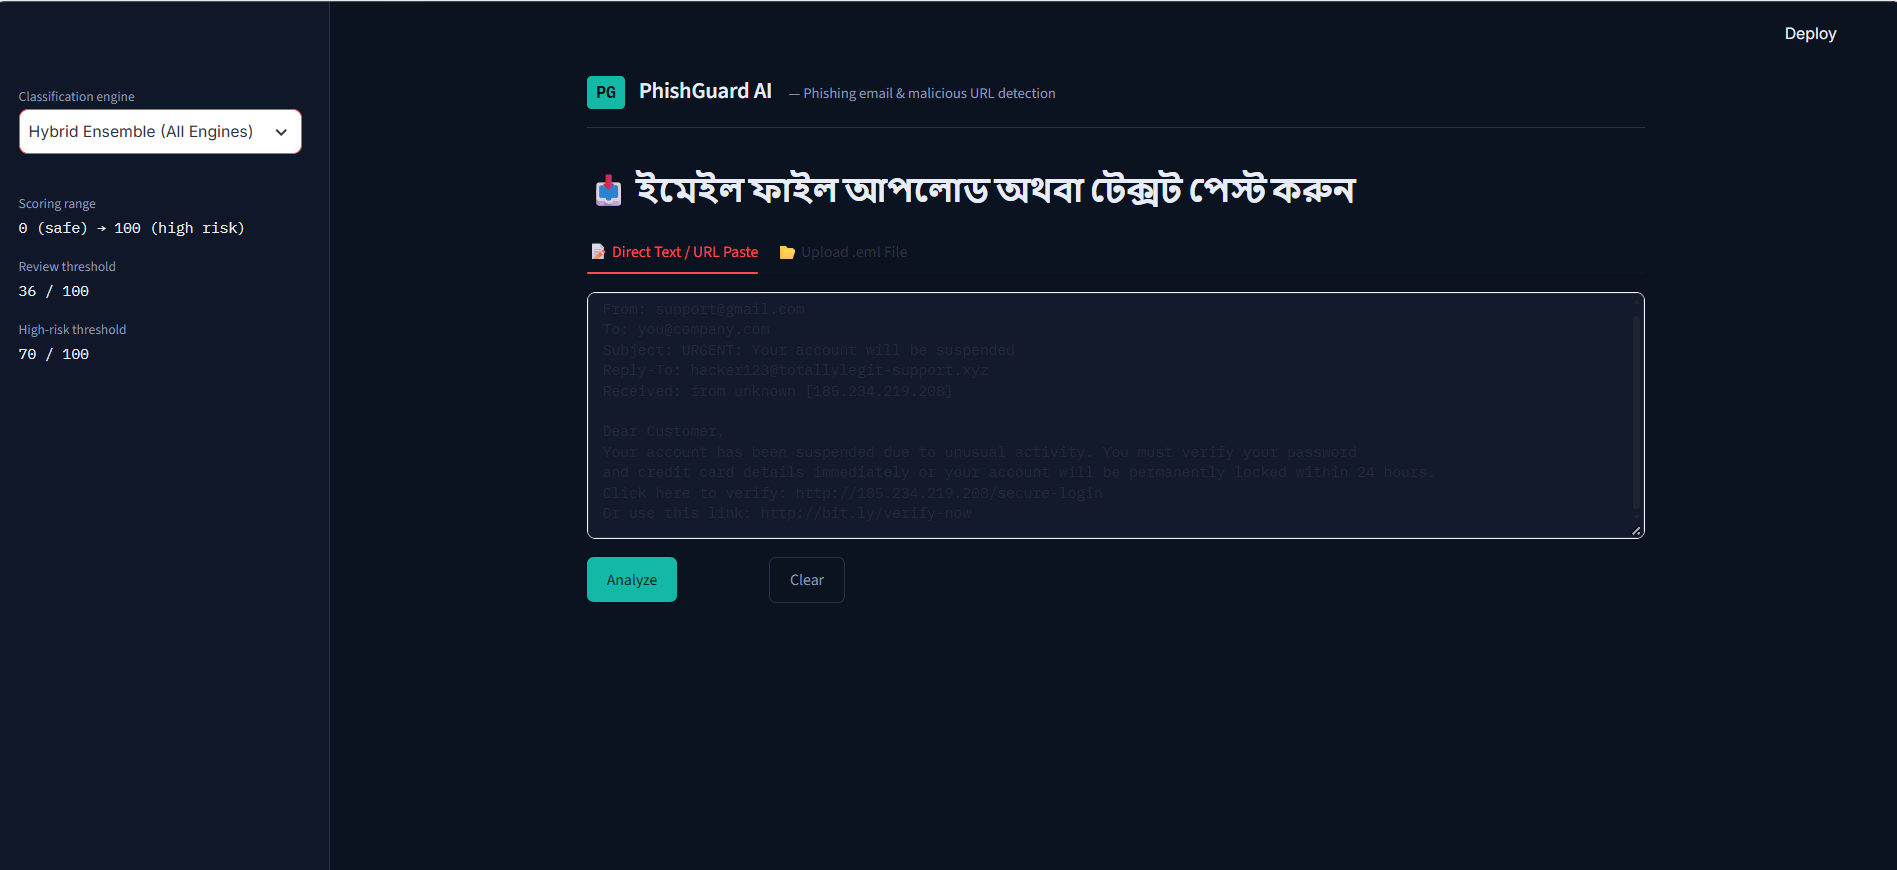
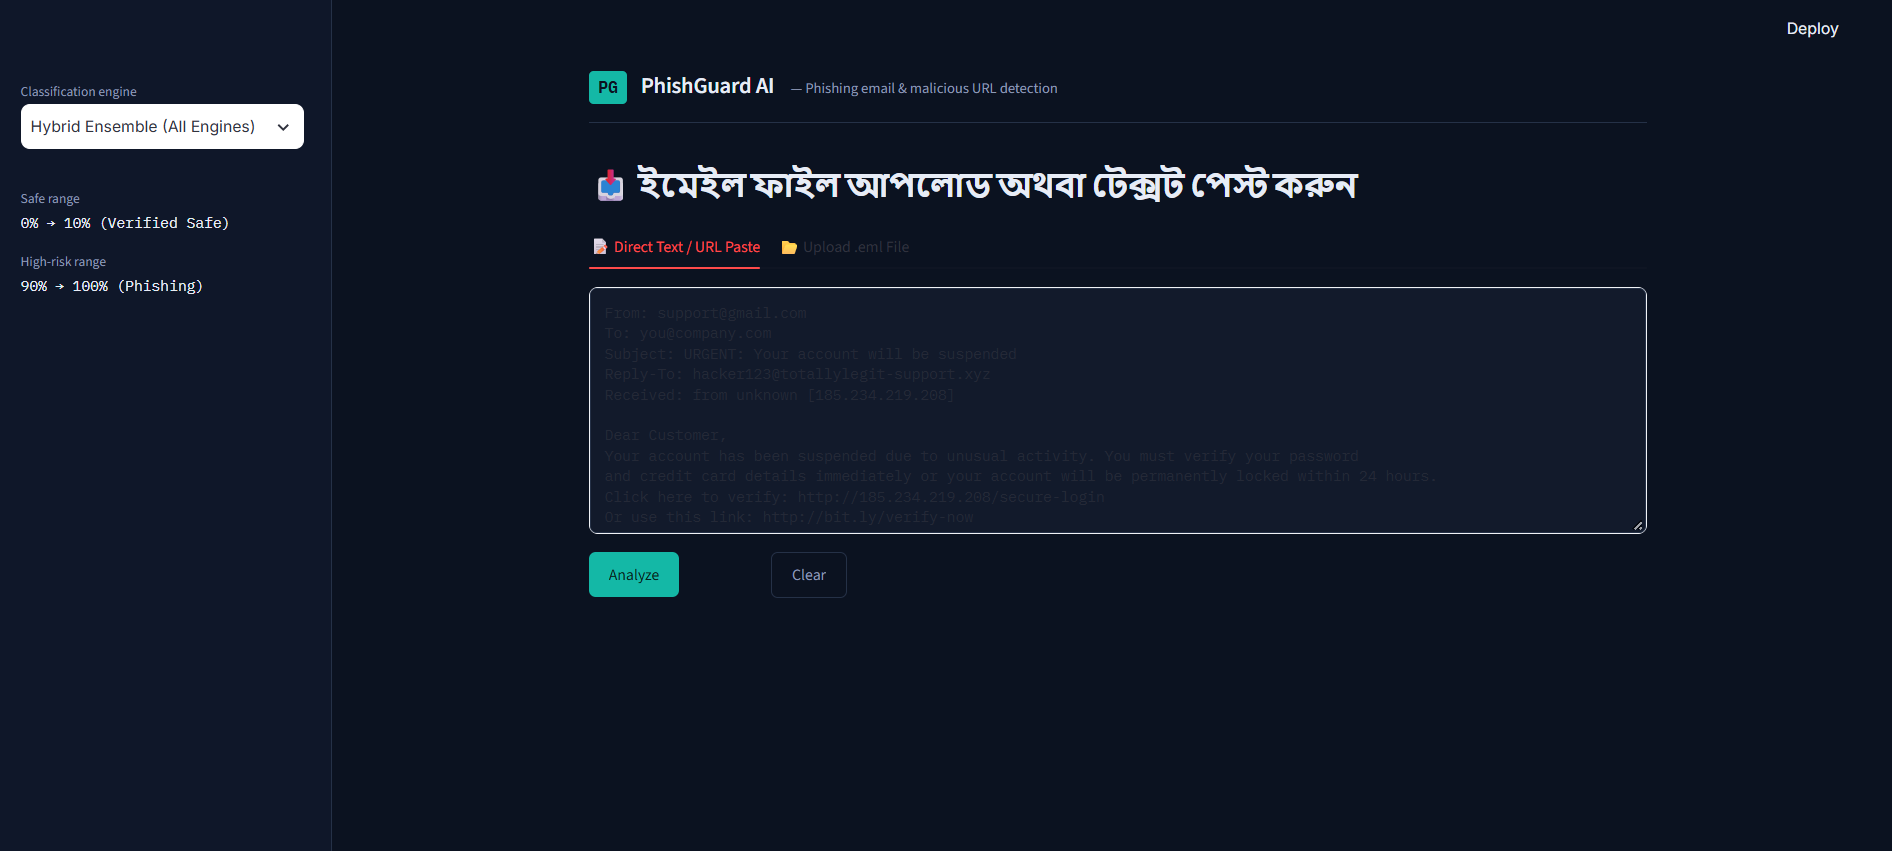
Update code

diff --git a/app.py b/app.py
@@ -98,7 +98,14 @@ GENERIC_GREETINGS = ["dear customer", "dear user", "dear valued", "dear sir/mada
 BRAND_KEYWORDS = ["paypal", "microsoft", "apple", "amazon", "netflix", "bank", "google", "facebook", "irs", "dhl", "fedex", "bkash", "nagad"]
 PRIVATE_IP_NOTE = "Private / non-routable address (internal network or header spoof artifact)"
 
-# Benign Context Patterns (Safe Override to prevent False Positives)
+# Trusted Official Domains Whitelist (Sender Reputation Check)
+TRUSTED_DOMAINS = [
+    "github.com", "google.com", "microsoft.com", "apple.com", "amazon.com",
+    "diu.edu.bd", "daffodilvarsity.edu.bd", "bkash.com", "nagad.com.bd",
+    "paypal.com", "linkedin.com", "netflix.com"
+]
+
+# Advanced Benign Context Patterns (Safe Override to prevent False Positives)
 BENIGN_PATTERNS = [
     "if you made this change",
     "no further action is needed",
@@ -111,6 +118,23 @@ BENIGN_PATTERNS = [
     "monthly electricity statement",
     "github security key was added",
     "your password was changed successfully",
+    "thank you for your payment",
+    "payment receipt for your recent",
+    "invoice is attached",
+    "attached is the",
+    "please find attached",
+    "class routine has been published",
+    "assignment submission confirmed",
+    "your ticket has been resolved",
+    "welcome to our newsletter",
+    "you are receiving this email because",
+    "to unsubscribe from these emails",
+    "statement is now available",
+    "new sign-in from",
+    "if this was you, you can ignore this",
+    "booking reference",
+    "flight itinerary",
+    "delivery has been completed",
 ]
 
 ENSEMBLE_WEIGHTS = {
@@ -236,7 +260,7 @@ def process_eml_file(uploaded_file) -> Tuple[str, List[str]]:
 
 
 def _extract_header(pattern: str, text: str) -> str:
-    m = re.search(pattern, text, re.IGNORECASE)
+    m = re.search(pattern, text, re.IGNORECASE | re.MULTILINE)
     return m.group(1).strip() if m else "N/A"
 
 
@@ -272,10 +296,40 @@ def analyze_email(raw_text: str) -> AnalysisResult:
     links = re.findall(r"https?://[^\s)>\]]+", text)
     result.links = list(dict.fromkeys(links))
 
-    # --- FALSE POSITIVE MITIGATION (Benign Context Override -> Safe 0-10%) ---
+    sender_domain = _domain_of(result.sender)
+    reply_domain = _domain_of(result.reply_to)
+
+    # Check if there is any header spoofing (From != Reply-To)
+    is_spoofed = bool(sender_domain and reply_domain and sender_domain != reply_domain)
+
+    # Check URL verdicts early to verify if links are dangerous
+    result.url_verdicts = analyze_urls(result.links)
+    has_dangerous_url = any(v.score >= 30 for v in result.url_verdicts)
+
+    # --- 1. TRUSTED DOMAIN WHITELIST CHECK ---
+    is_trusted_sender = any(
+        sender_domain == td or sender_domain.endswith("." + td)
+        for td in TRUSTED_DOMAINS
+    )
+    if is_trusted_sender and not is_spoofed and not has_dangerous_url:
+        result.signals.append(Signal(
+            "Verified trusted sender domain",
+            0.0,
+            f"Official domain '{sender_domain}' verified with no spoofing or malicious links",
+            0.0
+        ))
+        result.score = 1.5
+        return result
+
+    # --- 2. FALSE POSITIVE MITIGATION (Benign Context Override -> Safe 0-10%) ---
     has_benign_context = any(pattern in lower for pattern in BENIGN_PATTERNS)
-    if has_benign_context and not any(u in lower for u in ["http://", "https://"]):
-        result.signals.append(Signal("Verified legitimate transactional context", 0.0, "Safe override active (Score locked to 0-10%)", 0.0))
+    if has_benign_context and not is_spoofed and not has_dangerous_url:
+        result.signals.append(Signal(
+            "Verified legitimate transactional context",
+            0.0,
+            "Safe override active (Score locked to 0-10%)",
+            0.0
+        ))
         result.score = 2.0
         return result
 
@@ -319,9 +373,7 @@ def analyze_email(raw_text: str) -> AnalysisResult:
         result.signals.append(Signal("Generic, non-personalized greeting", 8, "e.g. 'Dear Customer'", 8))
 
     # Header Mismatch
-    sender_domain = _domain_of(result.sender)
-    reply_domain = _domain_of(result.reply_to)
-    if sender_domain and reply_domain and sender_domain != reply_domain:
+    if is_spoofed:
         score += 20
         result.signals.append(Signal("Reply-To domain differs from From domain", 20, f"{sender_domain} \u2192 {reply_domain}", 20))
 
@@ -333,7 +385,6 @@ def analyze_email(raw_text: str) -> AnalysisResult:
             break
 
     # URL Threat Aggregation
-    result.url_verdicts = analyze_urls(result.links)
     if result.url_verdicts:
         url_pts = aggregate_url_risk(result.url_verdicts)
         if url_pts > 0:
@@ -354,8 +405,8 @@ def analyze_email(raw_text: str) -> AnalysisResult:
                 score += pts
                 result.signals.append(Signal("Sending IP matches high-risk range pattern", pts, header_ip, 20))
 
-    # Binary Scaling: Score >= 35 becomes High Risk (90-100%), else Safe (0-10%)
-    if score >= 35:
+    # Binary Scaling: Score >= 45 becomes High Risk (90-100%), else Safe (0-10%)
+    if score >= 45:
         final_score = min(max(90.0, score + 40.0), 100.0)
     else:
         final_score = min(score, 8.0)
@@ -453,6 +504,10 @@ def classify_with_selected_engine(raw_text: str, selected_model: str) -> Analysi
     if selected_model == "Weighted Rule Engine v2":
         return rule_result
 
+    # If rule engine already verified it as Safe via Trusted Domain or Benign Context
+    if rule_result.score <= 2.0 and rule_result.signals:
+        return rule_result
+
     vectorizer, models = load_ml_engines()
     X_input = vectorizer.transform([raw_text or ""])
     model = models[selected_model]
@@ -479,6 +534,17 @@ def classify_with_selected_engine(raw_text: str, selected_model: str) -> Analysi
 
 def classify_with_ensemble(raw_text: str) -> AnalysisResult:
     rule_result = analyze_email(raw_text)
+
+    # If rule engine already verified it as Safe via Trusted Domain or Benign Context
+    if rule_result.score <= 2.0 and rule_result.signals:
+        rule_result.engine_breakdown = [
+            ("Weighted Rule Engine v2", rule_result.score),
+            ("Random Forest (NLP)", 5.0),
+            ("LightGBM", 5.0),
+            ("Naive Bayes", 5.0),
+        ]
+        return rule_result
+
     vectorizer, models = load_ml_engines()
     X_input = vectorizer.transform([raw_text or ""])
 
@@ -848,12 +914,10 @@ if "analysis_result" in st.session_state:
     # 2. GeoIP Tracking Map - Robust Target IP Extraction
     target_ip = None
     
-    # Check specifically inside 'Received: from ... [IP]' header line first
     received_match = re.search(r'Received:\s*from.*?\[(\d{1,3}\.\d{1,3}\.\d{1,3}\.\d{1,3})\]', analyzed_text, re.IGNORECASE)
     if received_match:
         target_ip = received_match.group(1)
     else:
-        # Fallback to general IP search if received header not found
         ip_matches = re.findall(r'\b(?:\d{1,3}\.){3}\d{1,3}\b', analyzed_text)
         if ip_matches:
             target_ip = ip_matches[0]
@@ -914,7 +978,7 @@ if "analysis_result" in st.session_state:
         st.markdown(rows_html, unsafe_allow_html=True)
         st.markdown("</div>", unsafe_allow_html=True)
 
-    # 4. Email Metadata & IP Details Cards (Screenshot match)
+    # 4. Email Metadata & IP Details Cards
     display_ip = result.header_ip if result.header_ip != "N/A" else (result.ips[0] if result.ips else "N/A")
     is_priv = display_ip != "N/A" and _is_private_ip(display_ip)
     risk_ip = any(s.label.startswith("Sending IP matches") for s in result.signals)
@@ -968,7 +1032,7 @@ if "analysis_result" in st.session_state:
 
         rows_html = ""
         for v in shown:
-            badge_color = TIER_COLORS[v.tier]
+            badge_color = TIER_COLORS.get(v.tier, TIER_COLORS["low"])
             reasons_text = '; '.join(v.reasons)
             rows_html += (
                 '<div class="url-row">'

diff --git a/src/rules.py b/src/rules.py
@@ -31,17 +31,19 @@ def evaluate_rules(text: str) -> Tuple[float, List[str]]:
 
     # 1. Benign Context Suppression (False Positive Mitigation)
     has_benign_context = any(re.search(pattern, lower) for pattern in BENIGN_PATTERNS)
-    if has_benign_context:
+    
+    # যদি বেনাইন বা নিরাপদ কন্টেক্সট মিলে যায় এবং ইমেইলে কোনো সন্দেহজনক বা ফিশিং লিংক/ইউআরএল না থাকে[cite: 3]
+    if has_benign_context and "http" not in lower:
         reasons.append("Verified legitimate transactional/notification context detected (Safe Override)")
         return 0.0, reasons
 
-    # 2. Urgency checks
+    # 2. Urgency checks[cite: 3]
     for word in URGENCY_WORDS:
         if word in lower:
             score += 10
             reasons.append(f"Urgency keyword detected: '{word}'")
 
-    # 3. Credential keyword checks
+    # 3. Credential keyword checks[cite: 3]
     for word in CREDENTIAL_WORDS:
         if word in lower:
             score += 15
